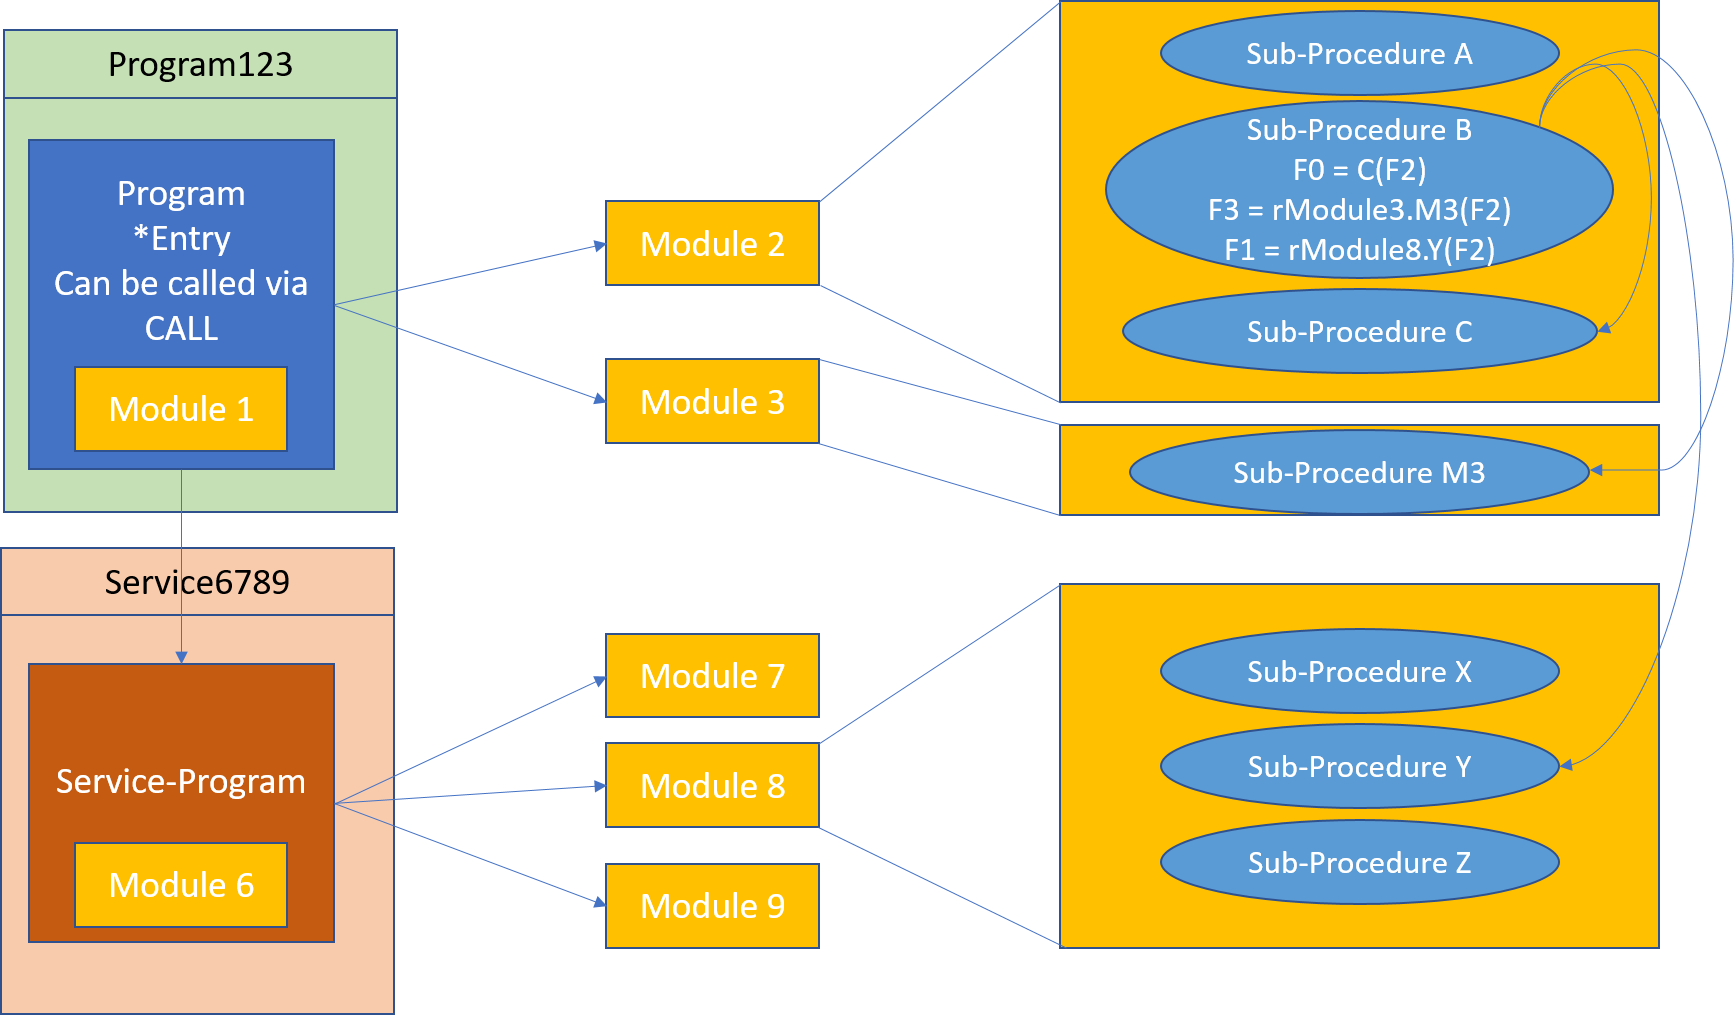
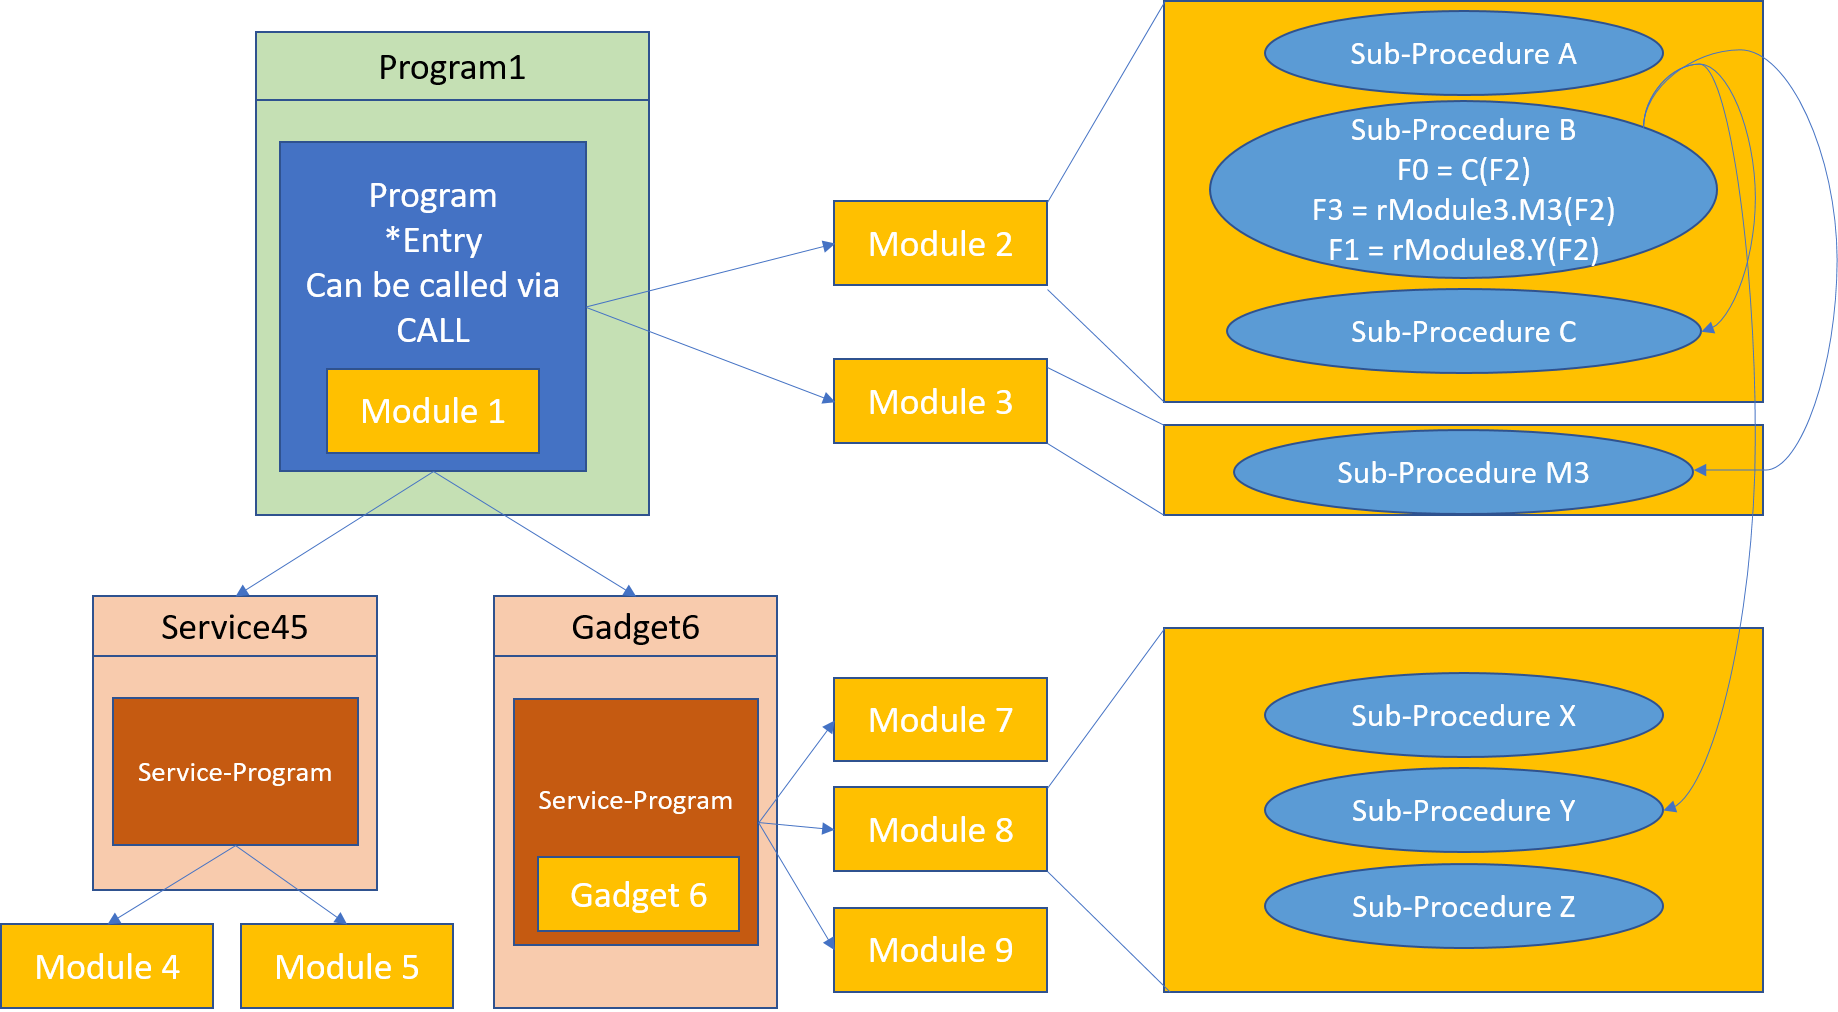
Refine explanation of program and module relationship.

diff --git a/concepts/architecture/monarch-programs.md b/concepts/architecture/monarch-programs.md
@@ -2,16 +2,18 @@
 title: Monarch Programs
 ---
 
-Application migrations performed by ASNA targeting the .NET platform rely on the ASNA Monarch Base framework. This framework supplements the .NET facilities to create an extended platform capable of supporting the original RPG/CL applications with a very high level of automation on the migration and fidelity in the execution.
+Application migrations performed by ASNA targeting the .NET platform rely on the ASNA Monarch Base framework. This framework supplements the .NET facilities to create an extended platform capable of supporting the original RPG/CL applications with a high level of automation on the migration and fidelity in the execution.
 
-You can read the article [Programs, Modules and Procedures](../background/programs-modules-procedures.html) to become familiar with those IBM i concepts and terminology.  
+If you are unfamiliar with them, you can read the article [Programs, Modules and Procedures](../background/programs-modules-procedures.html) to learn about those IBM i concepts and terminology.  
 
-Monarch Base provides three namesake classes that serve as the target for the migration of Modules, Programs and Service Programs.
-* ASNA.QSys.Runtime.JobSupport.Module
-* ASNA.QSys.Runtime.JobSupport.Program
-* ASNA.QSys.Runtime.JobSupport.ServiceProgram
+Monarch Base provides three namesake classes that serve as the target for the migration of Modules, Programs and Service Programs; Their migrations extend these base classes:
+* ```ASNA.QSys.Runtime.JobSupport.Module```
+* ```ASNA.QSys.Runtime.JobSupport.Program```
+* ```ASNA.QSys.Runtime.JobSupport.ServiceProgram```
 
-When Monarch is performing a migration, OPM Programs are treated as if they were single module ILE Programs; Monarch Base doesn’t have any special accommodation for OPM programs.
+The implementation of ```JobSupport.Program``` and ```JobSupport.ServiceProgram``` have a common base class called ```JobSupport.CommonProgram```.
+
+When Monarch is performing a migration, OPM Programs are treated as if they were single-module ILE Programs; Monarch Base doesn’t have any special accommodation for OPM programs.
 
 ## Module Migration
 Monarch migrates the source for a Module as a .NET class that extends the ```ASNA.QSys.Runtime.JobSupport.Module``` class (aka ```JobSupport.Module```). 
@@ -22,14 +24,14 @@ Each Subroutine in the Module generate a private .NET Method.
 
 Each Procedure generates two methods: a private method with the code of the original procedure and a second public method which wraps a call to the private method with an invocation Push/Pop pair.
 
-If the module has a main procedure and the module is the entry procedure for a program, the main procedure (or c-specs) logic is generated as a method call (Star/*)Entry.
+If the module has a main procedure and the module is the entry procedure for a program, the main procedure (or c-specs) logic is generated as a method named (_/*)Entry.
 
-As part of the migration, the process of resolving exported/imported references is performed. When a module is migrated, a getter property is generated for each other module that is used by the migrated module. The property returns a reference to an instance of the used module, calls to procedures in the used module get qualified with the property reference.
+As part of the migration, the process of resolving exported/imported references is performed. When a module is migrated, a getter property is generated for each other module that is used by the migrated module. The property returns a reference to an instance of the used module, calls to procedures in the used module get qualified with the corresponding property reference.
 
 ## Program Migration
 The process of binding modules into a program on the IBM i involves embedding copies of the modules in the program being produced.
 
-Migrated programs do not have copies of their modules, instead they hold an instance object of the corresponding Module class.  As on the IBM i, one of the modules is designated as the Entry Module and its main procedure is invoke when the program is called.
+Migrated programs do not have copies of their modules, instead they hold an instance object of the corresponding Module class. The program constructor creates its modules instances.  As on the IBM i, one of the modules is designated as the Entry Module and its main procedure is invoke when the program is called.
 
 A Monarch program is composed mostly of three elements:
  * Entry Point
@@ -58,11 +60,18 @@ Service Programs extend the Monarch Base class ```ASNA.QSys.Runtime.JobSupport.S
 ## Program as a Module
 On the IBM i a Module and a Program are always two distinct objects.  Even when a program is composed of a single module or when the module is deleted after the program is created, the two objects are distinct.  Recall that the CRTBNDRPG command creates a Module in QTEMP, binds it into a Program and then deletes the Module.
 
-This pattern of single module programs, and also the fact that most times a program's name is identical to the name of its main module, provide an opportunity to reduce the number of classes generated for these kinds of programs.
+This pattern of single-module programs, and also the fact that the majority of programs are named identically to the name of their main module, provide an opportunity to reduce the number of classes generated for the program.
 
-The classes ```JobSupport.Program``` and ```JobSupport.ServiceProgram``` extend the class ```JobSupport.Module```. This permits the migration of a single module program to generate a single class. OPM Programs also benefit from this simplified class structure.
+The class ```JobSupport.CommonProgram``` extend the class ```JobSupport.Module```. This permits the migration of a module/program pair to generate a single class. OPM Programs also benefit from this simplified class structure.
 
-The following diagram shows the relationship of a Monarch Program with its Modules and a Service Program it uses.
+## An Example
+The following diagram shows the relationship of a Monarch Program with its Modules and Service Programs. 
 
 ![Programs, Modules and Service Programs](images/monarch-programs-modules.png)
 **Programs, Modules and Service Programs**
+
+Notice that when program *Program1* was generated, a single class was created to serve both as the Program and the entry Module. In addition, Program1 has a collection of references to its **other** modules.  The main entry module was not named with the same name as the program, Module1 vs Program1, so the name that survives in the combined object is that of the program, Program1.
+
+Service Program *Gadget6* contains a module also called Gadget6, so a single class was generated to serve as both the program Gadget6 and the module Gadget6. Service program Gadget6 also has references to an additional three modules.
+
+Service Program *Service45* shows a different style because there is no module called Service45 so the generated service program class has no user code, only the reference to its modules: Module4 and Module5.

diff --git a/concepts/architecture/activation-groups.md b/concepts/architecture/activation-groups.md
@@ -6,32 +6,32 @@ An Activation Group is a substructure of a Job that serves to control the state 
 
 Before a program is given execution control, the program’s activation instance has to be found or created; if an adequate activation exists in the Job it is used, otherwise, the program must be activated first.
 
-When a program is activated, its variables are allocated in memory and some  other one-time initialization code may run. Related program are activated in activation groups. Activation groups associate the state of related programs.
+When a program is activated, its variables are allocated in memory and some  other one-time initialization code may run. Related programs are activated in activation groups. Activation groups associate the state of related programs.
 
 When a program ends execution and before returning to the caller, the program may be deactivated depending on how the program ended and the characteristics of its activation group.
 
 ## Program Activation
 When a program is called for the first time an instances to the program's class has to be created. A subsequent call to the program may reuse the program's instance or it may create a new instance for that call.
 
-Programs and Service programs are marked with an attribute that specify the activation group where they belong and their behavior. There are three general possibilities for this attribute. A program may be marked with an activation group attribute to:
-  * Be associated with a particular named activation group (```ActivationGroup("name")```).
+Programs and Service Programs are marked with an attribute that specify the activation group where they belong. There are three general possibilities for this attribute. A program may be marked with an activation group attribute to:
+  * Be associated with a particular named activation group (```ActivationGroup("SomeName")```).
   * Have a brand new activation group created and be associated with it (```NewActivationGroup```).
   * Associate with the activation group of the program that called it (```CallerActivationGroup```).
 
 ## Activation Group Creation
 Named Activation groups are created when the first program that belongs to it gets activated. 
 
-Programs marked with the ```NewActivationGroup``` are called, an activation group is created with a system generated name. As described below, the activation group will be destroyed when the program returns to its caller.
+When programs marked with the ```NewActivationGroup``` are called, an activation group is created with a system generated name. As described below, the activation group will be deleted when the program returns to its caller.
 
-When a Job starts, it creates an activation group named <b>"*DEFAULT"</b> that is used by default by programs which are not marked with an activation group attribute, typically OPM programs.
+When a Job starts, it creates an activation group named <b>*DFTACTGRP</b> that is used by default for programs that are not marked with an activation group attribute, typically OPM programs.
 
 ## Program Deactivation
 A program gets *deactivated* or disposed when its Activation Group is deleted.
 
-## Ending an Activation Group
+When a programs gets deactivated, its Dispose method gets called. The  implementation of the Dispose of the program base class calls Dispose on each of the Modules in the program's module collection.
+
+## Deleting an Activation Group
 There are three ways for an Activation Group to be deleted:
-  * After a program marked with the ```NewActivationGroup``` completes its execution and is about to return to the calling program.
-  * Named activations groups can be deleted by calling the method ```JobServices.RemoveActivationGroup```.
-  * When a the job reaches its natural end, it 
-  
-When a programs gets deactivated, its Dispose method gets called. The  implementation of the Dispose of the base class calls Dispose on each of the Modules in the program's module collection.
+  * After a program marked with the ```NewActivationGroup``` completes its execution and is returning to the calling program.
+  * Named activations groups can be deleted by calling the Module method ```JobServices.ReclaimActivationGroup```.
+  * When the job reaches its natural end, it deletes all surviving activation groups including <b>*DFTACTGRP</b>.
